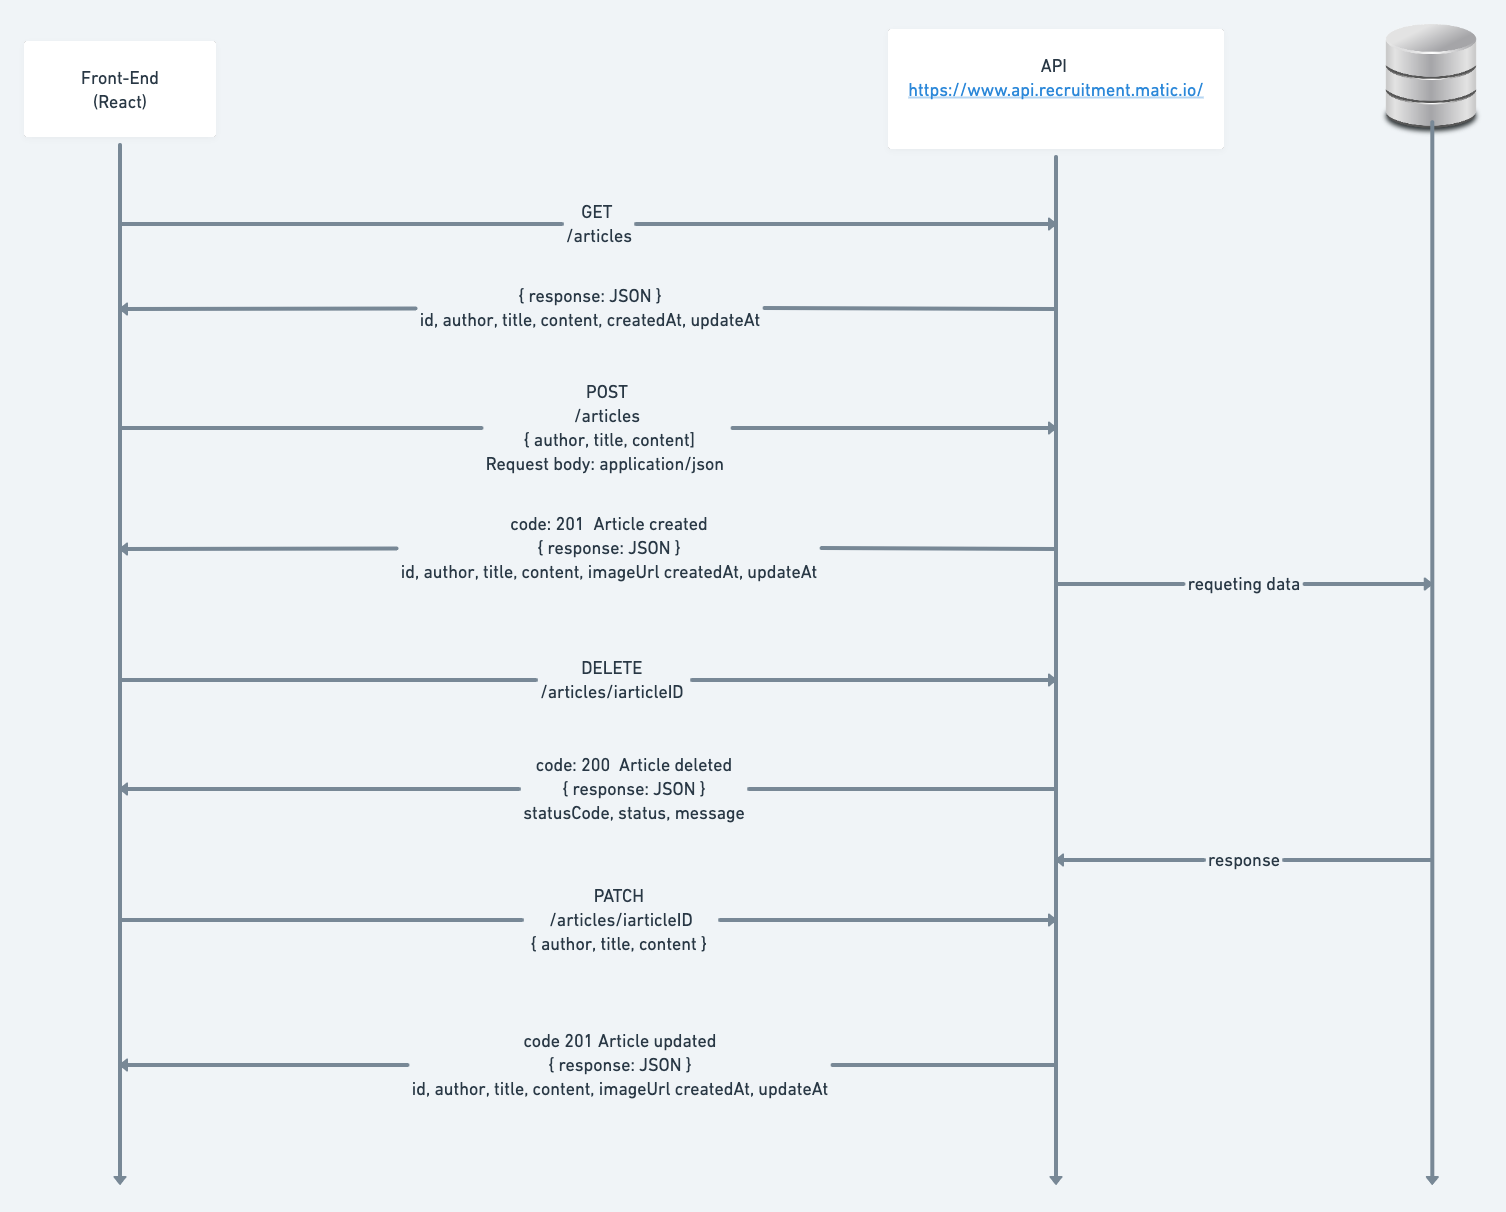
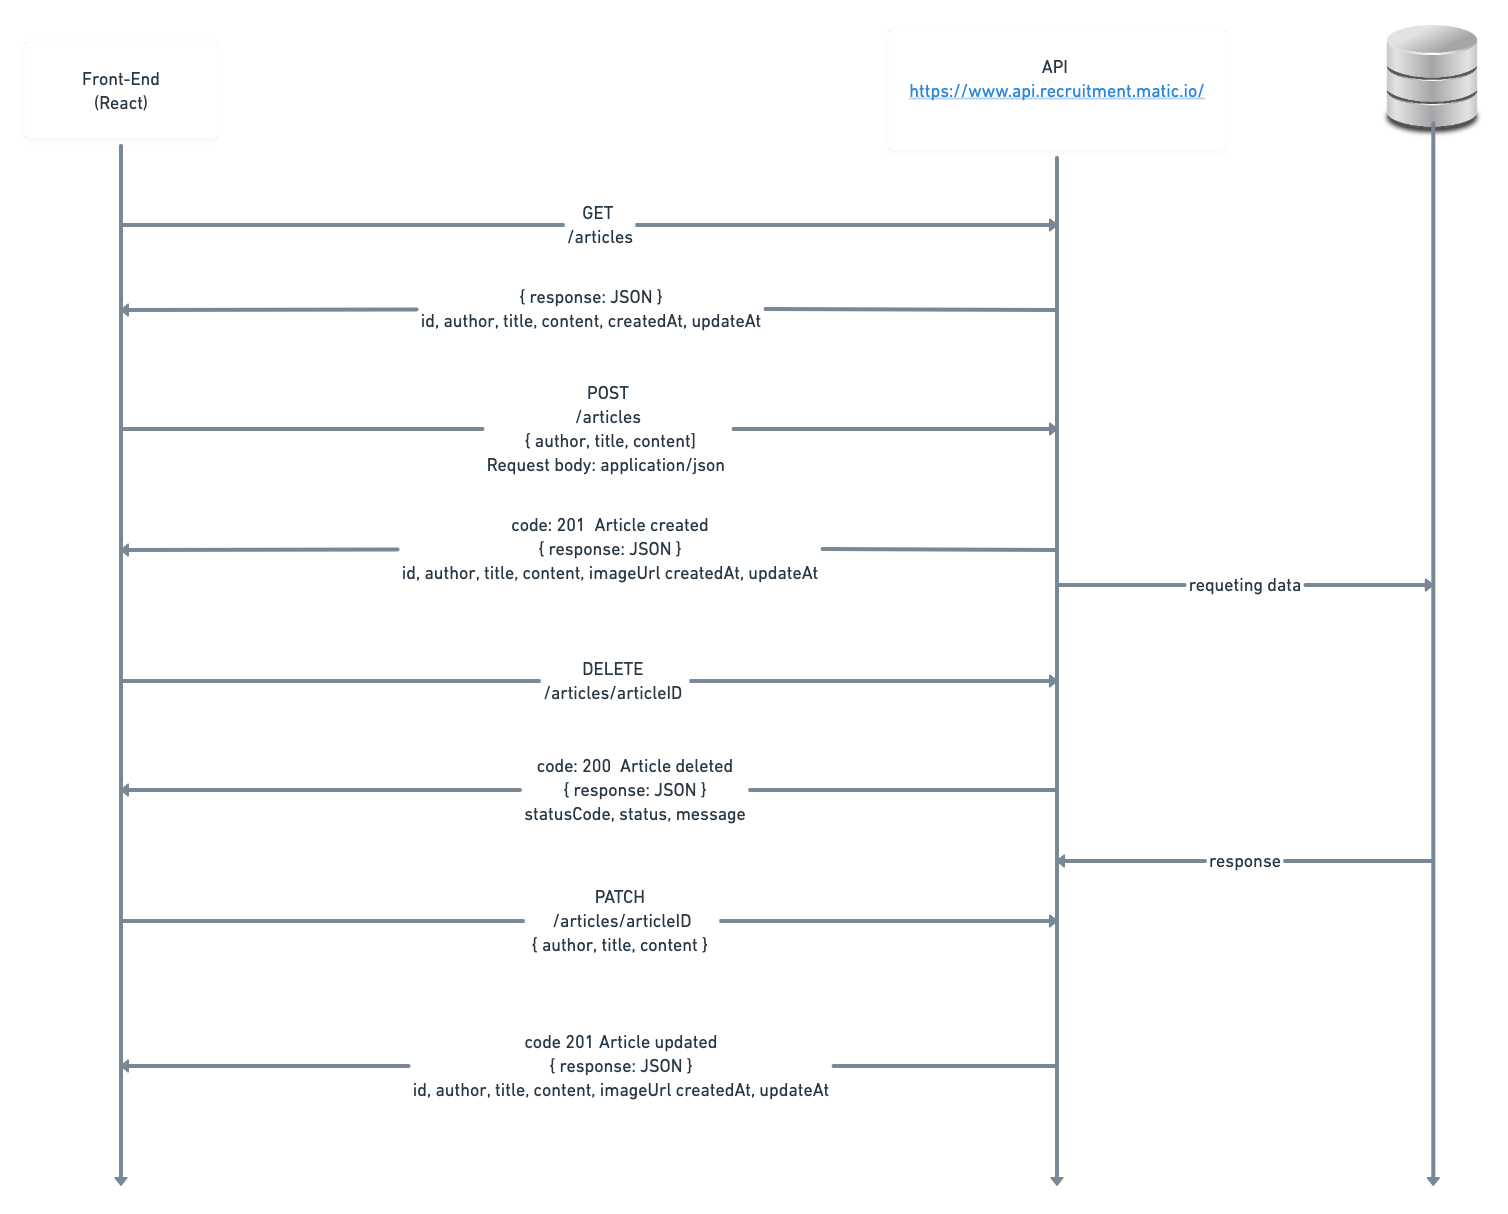
added new diagram to documentation and removed outscope the li unit testing

diff --git a/README.md b/README.md
@@ -1,4 +1,4 @@
-The following project is an application created in React version 18.2.0 to show 3 logic functions (Fibonacci, Count Words, FizzBuzz) and one SPA to manages one CRUD API .
+The following project is an application created in React version 18.2.0 to show 3 logic functions (Fibonacci, Count Words, FizzBuzz) and one SPA that manage one CRUD API.
 <p>
 The App has unit testing for all modules with JEST using react-scripts: 5.0.1.
 <p>
@@ -73,4 +73,3 @@ Remote [https://aistica.com/matic]
     * Loading for Previous Articles
     * Media queries for landscape.
     * Improve errors detections.
-    * Perform automated tests.
